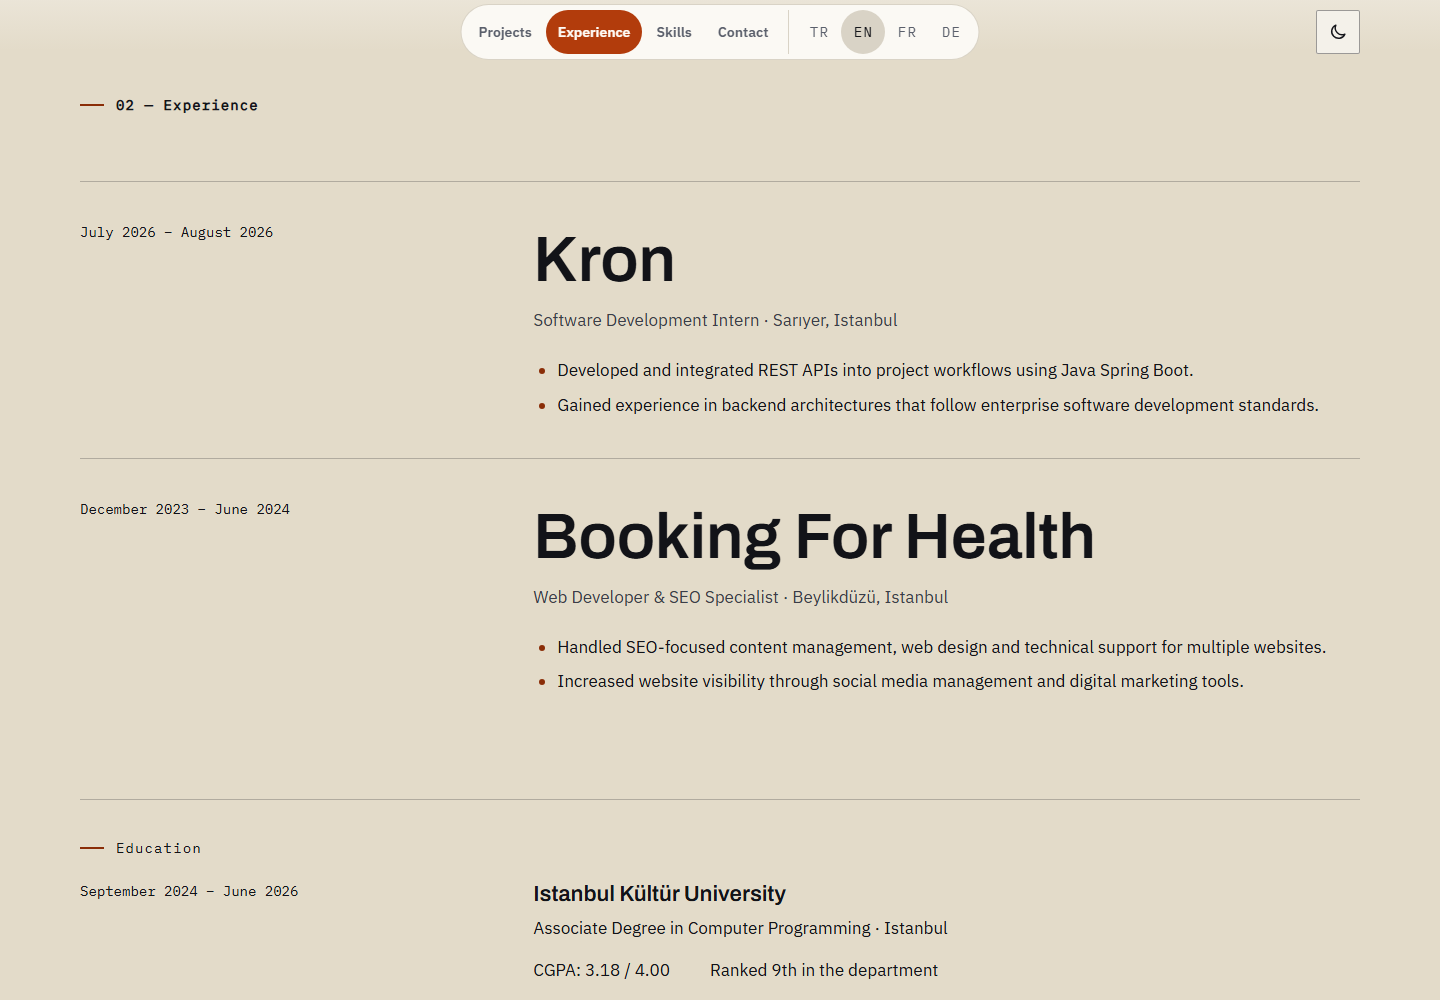
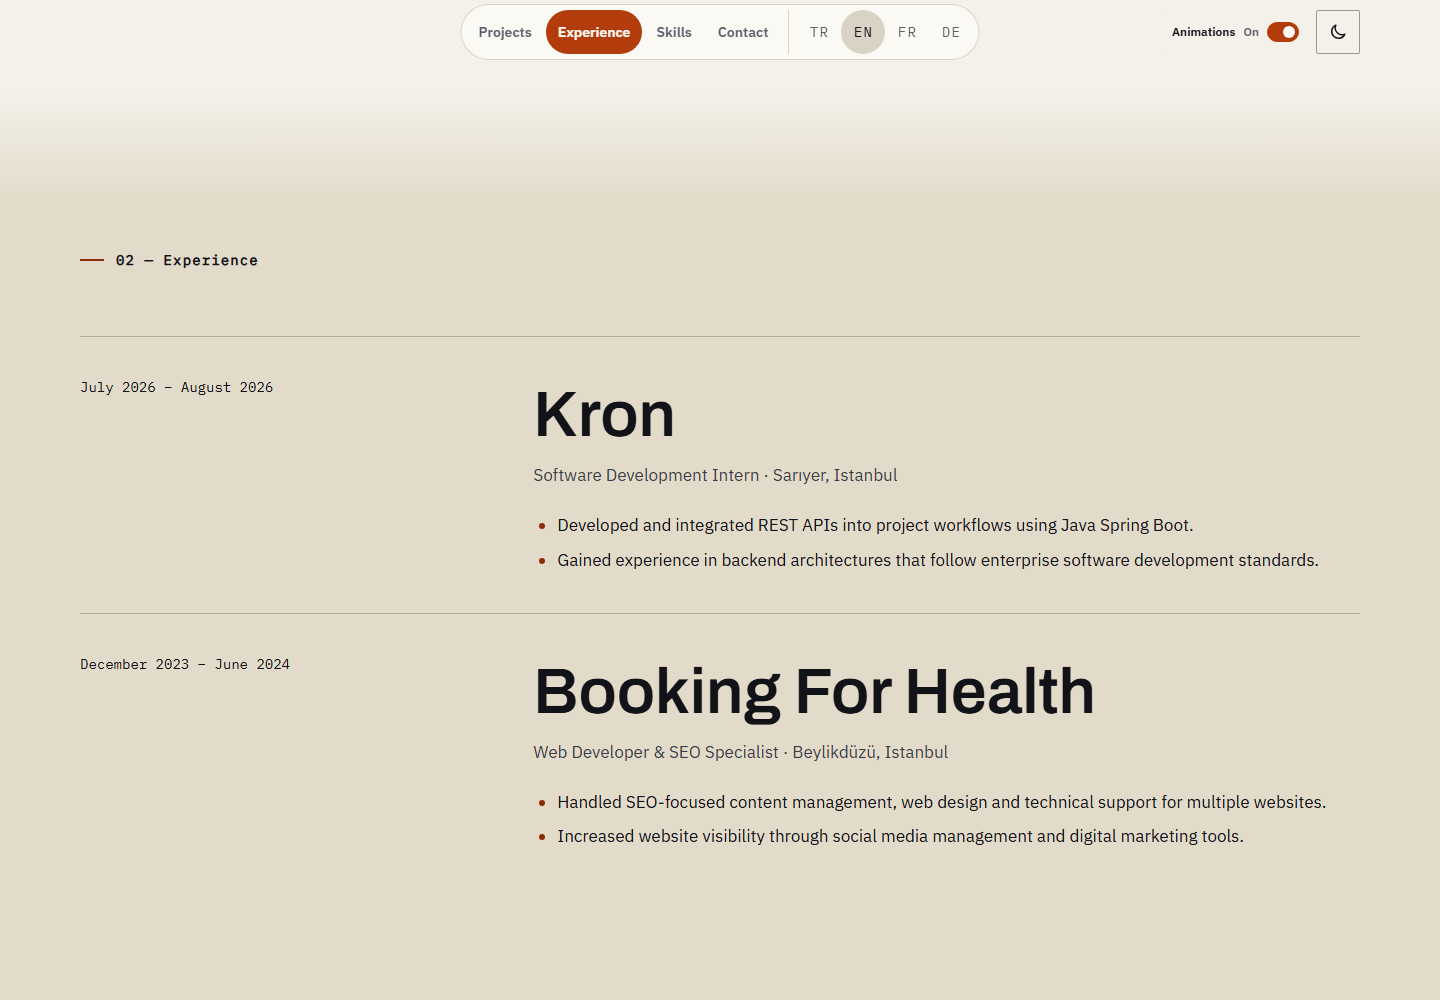
Move animation toggle into header and refresh README screenshots

diff --git a/frontend/src/app/header.ts b/frontend/src/app/header.ts
@@ -11,10 +11,12 @@ import {
   viewChild,
 } from '@angular/core';
 import { RouterLink } from '@angular/router';
+import { NgTemplateOutlet } from '@angular/common';
 import { LANGS, LANG_NAMES, ui, type Lang } from './i18n';
 import { person } from './profile';
 import { MobileMenu } from './mobile-menu';
 import { ThemeService } from './theme';
+import { MotionPrefService } from './motion-pref';
 
 const SECTIONS = ['projects', 'experience', 'skills', 'contact'] as const;
 
@@ -33,7 +35,7 @@ const LANG_KEY = 'lang-pref';
  */
 @Component({
   selector: 'app-header',
-  imports: [RouterLink, MobileMenu],
+  imports: [RouterLink, MobileMenu, NgTemplateOutlet],
   template: `
     <header
       #bar
@@ -86,6 +88,7 @@ const LANG_KEY = 'lang-pref';
         </div>
 
         <div #end class="site-header__end d-only">
+          <ng-container *ngTemplateOutlet="motionSwitch" />
           <button
             type="button"
             class="theme-btn"
@@ -109,6 +112,7 @@ const LANG_KEY = 'lang-pref';
         </div>
 
         <div class="site-header__m m-only">
+          <ng-container *ngTemplateOutlet="motionSwitch" />
           <details #langMenu class="m-lang" (keydown.escape)="closeLang(true)">
             <summary [attr.aria-label]="t().lang.label + ': ' + names[lang()]">
               {{ lang().toUpperCase() }} <span aria-hidden="true">▾</span>
@@ -150,6 +154,16 @@ const LANG_KEY = 'lang-pref';
         [active]="active()"
       />
     </header>
+    <ng-template #motionSwitch>
+      <button type="button" class="motion-switch" role="switch"
+        [attr.aria-checked]="!motion.reduce()" [attr.aria-label]="t().motion.label"
+        [attr.title]="t().motion.label + ': ' + (motion.reduce() ? t().motion.off : t().motion.on)"
+        (click)="motion.set(!motion.reduce())">
+        <span class="motion-switch__label" aria-hidden="true">{{ t().motion.label }}</span>
+        <span class="motion-switch__state" aria-hidden="true">{{ motion.reduce() ? t().motion.off : t().motion.on }}</span>
+        <span class="motion-switch__track" aria-hidden="true"><span></span></span>
+      </button>
+    </ng-template>
   `,
 })
 export class SiteHeader {
@@ -163,6 +177,7 @@ export class SiteHeader {
 
   protected readonly person = person;
   protected readonly theme = inject(ThemeService);
+  protected readonly motion = inject(MotionPrefService);
   protected readonly langs = LANGS;
   protected readonly names = LANG_NAMES;
   protected readonly t = computed(() => ui[this.lang()]);
@@ -193,6 +208,7 @@ export class SiteHeader {
     afterRenderEffect({
       read: () => {
         this.lang();
+        this.motion.reduce();
         this.fit();
       },
     });

diff --git a/frontend/src/app/i18n.ts b/frontend/src/app/i18n.ts
@@ -45,7 +45,7 @@ export interface UiStrings {
   menu: { open: string; close: string };
   lang: { label: string };
   contact: { title: string };
-  motion: { reduce: string };
+  motion: { label: string; on: string; off: string };
   /** Short count label next to a skill, e.g. 3 -> '3 projects'. */
   project: { prev: string; next: string; original: string };
 }
@@ -87,7 +87,7 @@ export const ui: Record<Lang, UiStrings> = {
     menu: { open: 'Menu', close: 'Close' },
     lang: { label: 'Choose language' },
     contact: { title: 'Let’s talk' },
-    motion: { reduce: 'Reduce motion' },
+    motion: { label: 'Animations', on: 'On', off: 'Off' },
     project: { prev: 'Previous project', next: 'Next project', original: 'Open full-size image' },
   },
   tr: {
@@ -127,7 +127,7 @@ export const ui: Record<Lang, UiStrings> = {
     menu: { open: 'Menü', close: 'Kapat' },
     lang: { label: 'Dil seç' },
     contact: { title: 'Konuşalım' },
-    motion: { reduce: 'Hareketi azalt' },
+    motion: { label: 'Animasyon', on: 'Açık', off: 'Kapalı' },
     project: { prev: 'Önceki proje', next: 'Sonraki proje', original: 'Görseli tam boyutta aç' },
   },
   fr: {
@@ -167,7 +167,7 @@ export const ui: Record<Lang, UiStrings> = {
     menu: { open: 'Menu', close: 'Fermer' },
     lang: { label: 'Choisir la langue' },
     contact: { title: 'Parlons-en' },
-    motion: { reduce: 'Réduire les animations' },
+    motion: { label: 'Animations', on: 'Activées', off: 'Désactivées' },
     project: { prev: 'Projet précédent', next: 'Projet suivant', original: 'Ouvrir l’image en taille réelle' },
   },
   de: {
@@ -207,7 +207,7 @@ export const ui: Record<Lang, UiStrings> = {
     menu: { open: 'Menü', close: 'Schließen' },
     lang: { label: 'Sprache wählen' },
     contact: { title: 'Sprechen wir' },
-    motion: { reduce: 'Bewegung reduzieren' },
+    motion: { label: 'Animationen', on: 'An', off: 'Aus' },
     project: { prev: 'Vorheriges Projekt', next: 'Nächstes Projekt', original: 'Bild in Originalgröße öffnen' },
   },
 };

diff --git a/frontend/src/styles/header.css b/frontend/src/styles/header.css
@@ -210,6 +210,56 @@ app-header {
   color: var(--accent);
 }
 
+.motion-switch {
+  display: inline-flex;
+  align-items: center;
+  gap: 0.5rem;
+  min-height: 44px;
+  min-width: 44px;
+  padding: 0 0.5rem;
+  border: 1px solid transparent;
+  border-radius: var(--r-btn);
+  background: var(--bg);
+  color: var(--fg);
+  font-size: 0.75rem;
+  font-weight: 600;
+  white-space: nowrap;
+  cursor: pointer;
+}
+.motion-switch:hover { border-color: var(--line); }
+.motion-switch__state { color: var(--fg-2); }
+.motion-switch__track {
+  display: flex;
+  align-items: center;
+  flex: none;
+  width: 32px;
+  height: 20px;
+  padding: 3px;
+  border: 1px solid var(--fg-2);
+  border-radius: var(--r-pill);
+  background: var(--surface);
+}
+.motion-switch__track > span {
+  width: 12px;
+  height: 12px;
+  border-radius: 50%;
+  background: var(--fg-2);
+  transition: transform var(--t-fast) var(--ease-out);
+}
+.motion-switch[aria-checked='true'] .motion-switch__track {
+  border-color: var(--accent);
+  background: var(--accent);
+}
+.motion-switch[aria-checked='true'] .motion-switch__track > span {
+  transform: translateX(12px);
+  background: var(--on-accent);
+}
+.site-header__m .motion-switch { gap: 0.375rem; padding-inline: 2px; }
+.site-header__m .motion-switch__state { display: none; }
+@media (max-width: 379.98px) {
+  .site-header__m .motion-switch__label { display: none; }
+}
+
 .theme-btn svg,
 .m-menu__theme svg {
   flex: none;

diff --git a/frontend/src/app/sections/contact.ts b/frontend/src/app/sections/contact.ts
@@ -1,7 +1,6 @@
-import { Component, computed, inject, input } from '@angular/core';
+import { Component, computed, input } from '@angular/core';
 import { ui, type Lang } from '../i18n';
 import { person } from '../profile';
-import { MotionPrefService } from '../motion-pref';
 import { Reveal } from '../reveal';
 
 @Component({
@@ -18,9 +17,7 @@ import { Reveal } from '../reveal';
           <a class="btn btn--ghost" [href]="person.linkedin" rel="noopener">LinkedIn</a>
           <a class="btn btn--ghost" [href]="person.github" rel="noopener">GitHub</a>        </div>
         <footer class="contact-footer mono">
-          <span>{{ year }} · {{ city() }} ·</span>
-          <button type="button" class="motion-toggle" [attr.aria-pressed]="motion.reduce()"
-            (click)="motion.set(!motion.reduce())">{{ t().motion.reduce }}</button>
+          <span>{{ year }} · {{ city() }}</span>
         </footer>
       </div>
     </section>
@@ -30,7 +27,6 @@ export class ContactSection {
   readonly lang = input.required<Lang>();
   protected readonly person = person;
   protected readonly year = new Date().getFullYear();
-  protected readonly motion = inject(MotionPrefService);
   protected readonly t = computed(() => ui[this.lang()]);
   protected readonly city = computed(() => this.lang() === 'tr' ? 'İstanbul' : 'Istanbul');
 }

diff --git a/frontend/src/styles/sections.css b/frontend/src/styles/sections.css
@@ -106,21 +106,6 @@ app-contact { display: block; min-width: 0; }
   padding-top: var(--space-3);
   letter-spacing: normal;
 }
-.motion-toggle {
-  min-height: 44px;
-  min-width: 44px;
-  max-width: 100%;
-  padding: var(--space-1);
-  border: 1px solid transparent;
-  border-radius: var(--r-btn);
-  background: transparent;
-  font: inherit;
-  color: var(--fg-2);
-  text-decoration: underline;
-  text-underline-offset: .2em;
-  overflow-wrap: anywhere;
-}
-.motion-toggle:hover, .motion-toggle[aria-pressed='true'] { color: var(--accent); }
 
 @media (max-width: 959.98px) {
   .experience-entry, .education-entry, .skills-columns { grid-template-columns: minmax(0, 1fr); }

diff --git a/README.tr.md b/README.tr.md
@@ -15,7 +15,7 @@ Ayberk Arda'nın kişisel portfolyo sitesi; canlı adres **https://ayberkaarda.g
 | --- | --- |
 | <img src="docs/screenshots/mobile-dark.png" width="300" alt="390 px genişliğinde telefon ekranında ana sayfa, koyu tema"> | <img src="docs/screenshots/mobile-light.png" width="300" alt="390 px genişliğinde telefon ekranında ana sayfa, açık tema"> |
 
-Herkese açık site ekran görüntüleri, 16 Ekim 2026 tarihinde canlı sitenin İngilizce sürümünden 1440 × 1000 (masaüstü) ve 390 × 844 (mobil) boyutlarında alınmıştır. Görseller yeni eklenen CVera, MERIDIAN ve LearnToPoker projelerini içerir.
+Herkese açık site ekran görüntüleri, 16 Ekim 2026 tarihinde güncel üretim derlemesinin İngilizce sürümünden 1440 × 1000 (masaüstü) ve 390 × 844 (mobil) boyutlarında alınmıştır. Görseller header’daki animasyon switch’ini ve yeni eklenen CVera, MERIDIAN ve LearnToPoker projelerini içerir.
 
 ### Proje sayfaları
 
@@ -44,6 +44,7 @@ Yönetim panelinin arayüzü Türkçedir. Bu önceki panel görüntüsü yöneti
 - Angular 22, bağımsız (standalone) bileşenler ve sinyaller; çalışma anında sunucu tarafı yok.
 - `/tr/`, `/en/`, `/fr/`, `/de/` altında dört dil. Kök yol `/` önce kaydedilmiş seçime, sonra tarayıcı diline, hiçbiri yoksa İngilizceye yönlendirir.
 - Açık ve koyu tema. Ziyaretçi seçim yapana kadar tema sistem ayarını izler; satır içi bir betik temayı ilk boyamadan önce uygular.
+- Masaüstü ve mobil header’da erişilebilir animasyon aç/kapat switch’i. Tercih yerel olarak kaydedilir ve proje sayfalarında korunur; footer’da artık hareket kontrolü bulunmaz.
 - Ana sayfa bölümleri: giriş, projeler, deneyim, yetenekler, iletişim.
 - Geniş ekranlarda öne çıkan proje kartları girişte yelpaze olarak başlar ve kaydırdıkça proje ızgarasına yerleşir. Sahne kodu ayrı, tembel yüklenen bir parçadır; dar ekranlarda ve hareket azaltma tercihinde yüklenmez.
 - Her proje için bir sayfa (`/<dil>/projects/<slug>/`): özet, görsel, teknolojiler, bağlantılar, öne çıkanlar, isteğe bağlı detay bölümleri ve önceki/sonraki gezinmesi.
@@ -188,7 +189,7 @@ cd frontend
 npx ng build           # üretim derlemesi
 ```
 
-Ekim 2026 proje güncellemesinin üretim derlemesi, ilk yükleme için tahmini aktarım boyutunu 91.23 kB olarak bildirir.
+Ekim 2026 header güncellemesinin üretim derlemesi, ilk yükleme için tahmini aktarım boyutunu 91.45 kB olarak bildirir.
 
 ## Güvenlik notları
 

diff --git a/README.md b/README.md
@@ -15,7 +15,7 @@ Personal portfolio of Ayberk Arda, live at **https://ayberkaarda.github.io**. Th
 | --- | --- |
 | <img src="docs/screenshots/mobile-dark.png" width="300" alt="Home page on a 390 px wide phone screen, dark theme"> | <img src="docs/screenshots/mobile-light.png" width="300" alt="Home page on a 390 px wide phone screen, light theme"> |
 
-The public-site screenshots were captured from the live English version on 16 October 2026 at 1440 × 1000 (desktop) and 390 × 844 (mobile). They include the newly added CVera, MERIDIAN and LearnToPoker projects.
+The public-site screenshots were captured from the current production build in English on 16 October 2026 at 1440 × 1000 (desktop) and 390 × 844 (mobile). They include the header animation switch and the newly added CVera, MERIDIAN and LearnToPoker projects.
 
 ### Project pages
 
@@ -44,6 +44,7 @@ The admin panel interface is in Turkish. This earlier admin screenshot is retain
 - Angular 22 with standalone components and signals; no server side at runtime.
 - Four languages under `/tr/`, `/en/`, `/fr/`, `/de/`. The root path `/` redirects to the saved choice, then to the browser language, then to English.
 - Light and dark themes. The theme follows the system setting until the visitor picks one; an inline script applies it before the first paint.
+- An accessible animation on/off switch in the desktop and mobile header. The choice is saved locally and stays consistent across project pages; the footer no longer contains a motion control.
 - Home page sections: hero, projects, experience, skills, contact.
 - On wide screens, the featured project cards start as a fan in the hero and move into the project grid while scrolling. The scene code is a separate lazy chunk and is not loaded on narrow screens or with reduced motion.
 - A page per project (`/<lang>/projects/<slug>/`) with summary, image, stack, links, highlights, optional detail sections and previous/next navigation.
@@ -190,7 +191,7 @@ cd frontend
 npx ng build           # production build
 ```
 
-The production build for the October 2026 project update reports an estimated initial transfer size of 91.23 kB.
+The production build for the October 2026 header update reports an estimated initial transfer size of 91.45 kB.
 
 ## Security notes
 
